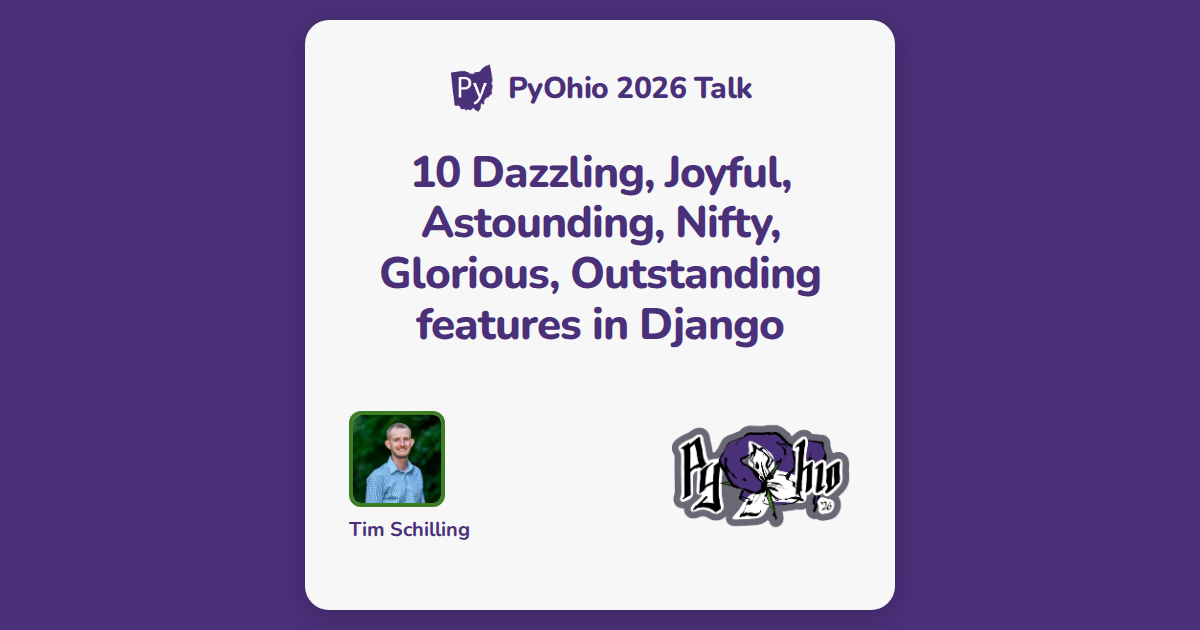
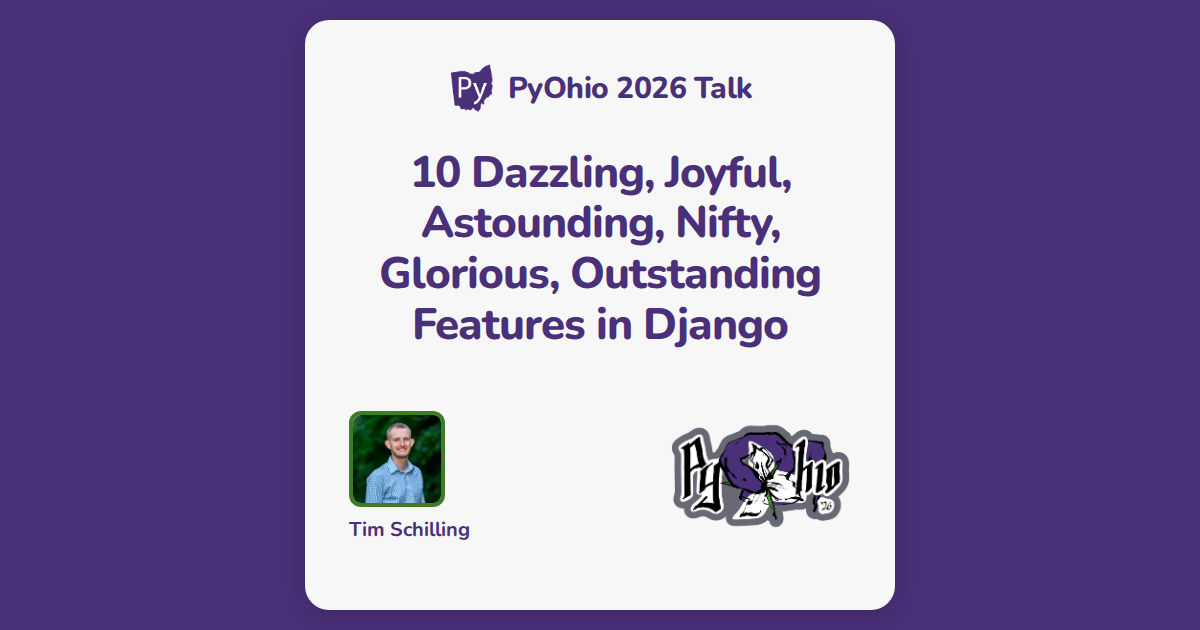
Update data and OG images from PreTalx (#606)

Changed region(s): [[0.3392, 0.4825, 0.6783, 0.5429]]

diff --git a/2026/content/program/talks/10-dazzling-joyful-astounding-nifty-glorious-outstanding-in.md b/2026/content/program/talks/10-dazzling-joyful-astounding-nifty-glorious-outstanding-in.md
@@ -1,11 +1,11 @@
 ---
-title: 10 Dazzling, Joyful, Astounding, Nifty, Glorious, Outstanding features in Django
+title: 10 Dazzling, Joyful, Astounding, Nifty, Glorious, Outstanding Features in Django
 page_type: talk
 code: Q8TUKB
 duration: 30
 type: 30 Minute Talk
 qna: true
-qna_channel: 10 Dazzling, Joyful, Astounding, Nifty, Glorious, Outstanding features in Django
+qna_channel: 10 Dazzling, Joyful, Astounding, Nifty, Glorious, Outstanding Features in Django
 speakers:
   - name: Tim Schilling
     slug: tim-schilling

diff --git a/2026/content/program/schedule.md b/2026/content/program/schedule.md
@@ -56,7 +56,7 @@ schedule:
       - time: 11:00 AM
         kind: talks
         cells:
-          - title: 10 Dazzling, Joyful, Astounding, Nifty, Glorious, Outstanding features in Django
+          - title: 10 Dazzling, Joyful, Astounding, Nifty, Glorious, Outstanding Features in Django
             slug: 10-dazzling-joyful-astounding-nifty-glorious-outstanding-in
             speakers: Tim Schilling
           - title: Failed Experiments in Vibe Coding

diff --git a/2026/content/program/speakers/tim-schilling.md b/2026/content/program/speakers/tim-schilling.md
@@ -20,7 +20,7 @@ talks:
         avatar: /2026/img/speakers/rachell-calhoun.webp
   - code: Q8TUKB
     slug: 10-dazzling-joyful-astounding-nifty-glorious-outstanding-in
-    title: 10 Dazzling, Joyful, Astounding, Nifty, Glorious, Outstanding features in Django
+    title: 10 Dazzling, Joyful, Astounding, Nifty, Glorious, Outstanding Features in Django
     type: 30 Minute Talk
     speakers:
       - name: Tim Schilling

diff --git a/2026/content/program/talks/index.md b/2026/content/program/talks/index.md
@@ -4,7 +4,7 @@ page_type: talks_listing
 unlisted: true
 talks:
   - slug: 10-dazzling-joyful-astounding-nifty-glorious-outstanding-in
-    title: 10 Dazzling, Joyful, Astounding, Nifty, Glorious, Outstanding features in Django
+    title: 10 Dazzling, Joyful, Astounding, Nifty, Glorious, Outstanding Features in Django
     type: 30 Minute Talk
     speakers:
       - name: Tim Schilling
